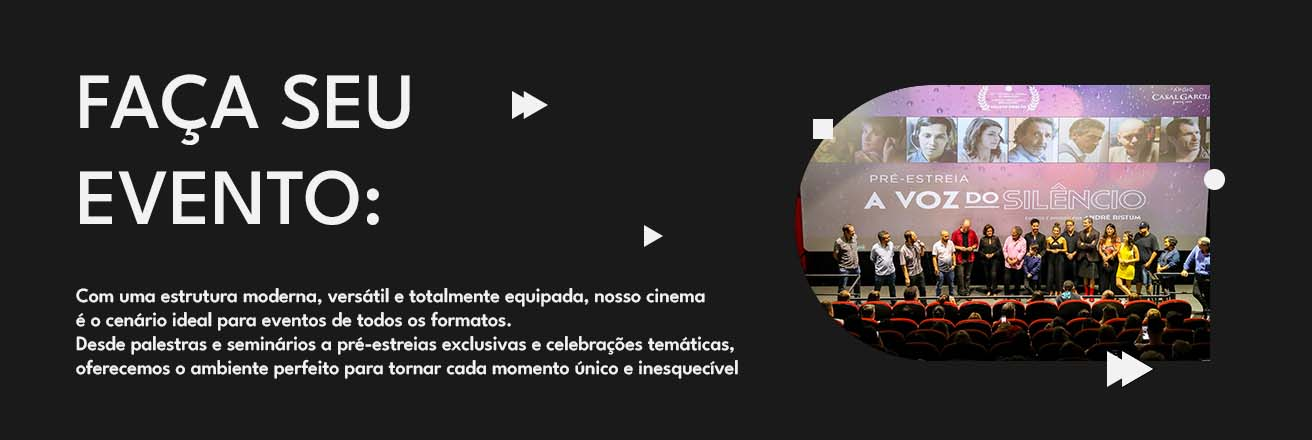
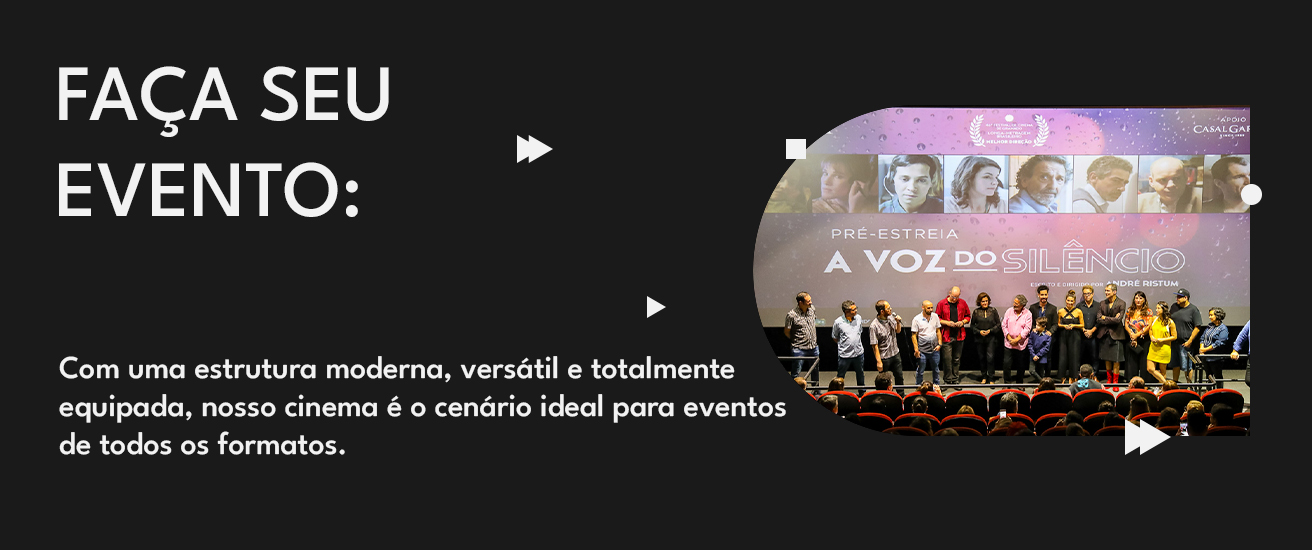
:construction: Página Eventos

diff --git a/src/Pages/secondary/Eventos/Eventos.jsx b/src/Pages/secondary/Eventos/Eventos.jsx
@@ -31,30 +31,86 @@ const Eventos = () => {
                                     className={styles.Orcamento}>Solicitar orçamento</button>
                         </article>
 
+                        
+                  </section>
+
+                  <section>
+
+                        <article className={styles.ArticleFull}>
+                              <div>
+                                    <h2 className={styles.TitleSide}>Uma Estrutura Completa</h2>
+                                    <p className={styles.Paragraph}>Localizado em pontos estratégicos, nosso cinema combina conforto, tecnologia e elegância para atender às suas necessidades.</p>
+                                    <ul>
+                                          <br/>
+                                          <li>4 salas em formato stadium <br/>(Capacidade de 110 a 190 lugares)</li>
+                                          <li>Exibição em <strong>QUALQUER FORMATO:</strong> PPT, DVD, HD e apresentações de filmes institucionais.
+                                          </li>
+                                          <li>Sala de exibição com equipamentos de última geração
+                                          </li>
+                                          <li>Ambientes climatizados e Wi-Fi gratuito
+                                          </li>
+                                    </ul>
+                              </div>
+                              <div>
+                                    <img src="/images/sala-1.jpg" alt="" />
+                              </div>
+                        </article>
+
                         <article className={styles.ArticleFull}>
                               <div>
                                     <img src="/images/15-anos-editora-planeta.jpg" alt="" />
                               </div>
 
                               <div>
-                                    <h1 className={styles.Title}>Mude de ambiente</h1>
-                                    <p>Oferecemos um ambiente versátil e sofisticado, ideal para transformar qualquer ocasião em um momento único. Nosso cinema vai além das exibições de filmes e abre suas portas para receber diferentes tipos de eventos. <br/>
-                                    <br/>Confira algumas das possibilidades:</p> <br/>
+                                    <h1 className={styles.TitleSide}>Mude de ambiente</h1>
+                                    <p className={styles.Paragraph}>Oferecemos um ambiente versátil e sofisticado, ideal para transformar qualquer ocasião em um momento único. Nosso cinema vai além das exibições de filmes e abre suas portas para receber diferentes tipos de eventos: <br/>
+                                    </p> <br/>
                                     
                                     <ul>
                                           <li>Palestras e seminários</li>
                                           <li>Eventos corporativos</li>
                                           <li>Festas e aniversários Temáticos</li>
+                                          <li>Lançamento de produtos</li>
                                     </ul> <br/>
 
-                                    <p>Solicite o seu orçamento com nosso comercial e faça a sua visita. Estamos ansiosos para recebê-los.</p>
+                                    <p className={styles.Paragraph}>
+                                    Entre em contato com nossa equipe comercial para solicitar seu orçamento e agendar uma visita.
+                                    </p>
+
+                                    <button 
+                                    onClick={() => navigate(`/${cidade}/Contato`)}
+                                    className={styles.Orcamento}>Solicitar orçamento</button>
 
                               </div>
                         </article>
 
-                        <article className={styles.Article}>
+                        <article className={styles.ArticleFull}>
+                              <div>
+                                    <h1 className={styles.TitleSide}>Serviços</h1>
+                                    <p className={styles.Paragraph}>Espaço para recepções e coquetéis: até 350 pessoas (em pé) ou 150 pessoas (sentadas).</p> <br />
+                                    <p className={styles.Paragraph}>Estacionamento conveniado para maior praticidade.</p> <br/>
+                                    <p className={styles.Paragraph}>Serviços de buffet com opções variadas:</p><br />
+                                    <ul>
+                                          <li>Welcome Coffee</li>
+                                          <li>Brunch</li>
+                                          <li>Almoços</li>
+                                          <li>Coquetéis</li>
+                                          <li>Jantares</li>
+                                    </ul>
+
+                                    <button 
+                                    onClick={() => navigate(`/${cidade}/Contato`)}
+                                    className={styles.Orcamento}>Solicitar orçamento</button>
+                              </div>
+
+                              <div>
+                                    <img src="/images/buffet.jpg" alt="O serviço de buffet do Cinema Reserva Cultural São Paulo"></img>
+                              </div>
+                        </article>
+
+                        <article className={styles.Article} id="Parcerias">
                               <h1 className={styles.Title}>Parcerias</h1>
-                                    <div className={styles.Parcerias}>
+                                    <div className={styles.Parcerias} >
                                           <a  href="https://dancarmarketing.com.br/"
                                           target="_blank" rel="noreferrer noopener">
                                           <img src={require('../../../images/Parceiros/11_dmkt.png')} alt="Logo Dançar Marketing" />
@@ -136,6 +192,7 @@ const Eventos = () => {
                               </div>
                         </article>
                   </section>
+
                   <Footer />
             </main>
       );

diff --git a/src/Pages/secondary/Eventos/Eventos.module.css b/src/Pages/secondary/Eventos/Eventos.module.css
@@ -10,23 +10,20 @@
 }
 
 .ArticleFull{
-    padding: 6rem;
+    padding: 3rem 9rem;
     display: flex;
     flex-direction: row;
     width: 100%;
     margin: 0;
-    background-color: #f0f0f0;
+    background-color: #202020;
     border-radius: 0;
 }
+
 .ArticleFull div{
     width: 50%;
-    margin: 1rem;
+    margin: 1.5rem;
 }
-.ArticleFull p{
-    color: var(--main-bg-color-dark);
-    font-size: 1.3rem;
-    font-weight: 300;
-}
+
 .ArticleFull img{
     box-shadow: 0 10px 8px rgba(0, 0, 0, 0.2);
     width: 100%;
@@ -41,27 +38,42 @@
 }
 
 .Title{
-    color: var(--main-color);
     font-size: 3rem;
     font-weight: 500;
     text-transform: uppercase;
     text-align: center;
+    padding-bottom: 0.5rem;
     margin-bottom: 2.5rem;
+    color: var(--main-text-color);
+    border-bottom: 3px solid var(--main-color);
 }
 
-.Paragraph{
-    color: var(--main-text-color);
-    font-size: 1.2rem;
+.TitleSide{
+    font-size: 2.5rem;
     font-weight: 400;
-    text-align: center;
+    text-transform: uppercase;
+    text-align: left;
+    margin-bottom: 2.5rem;
+    color: var(--main-text-color);
+    border-bottom: 3px solid var(--main-color);  
+
 }
+
 .ArticleFull div ul{
     padding-left: 2rem;
 }
 
 .ArticleFull div li{
-    font-size: 1.5rem;
+    font-size: 1.3rem;
     list-style: disc;
+    color: var(--main-text-color);
+    margin-bottom: 0.8rem;
+}
+.Paragraph{
+    font-size: 1.3rem;
+    list-style: disc;
+    color: var(--main-text-color);
+    margin-bottom: 0.1rem;
 }
 
 .Orcamento{
@@ -70,7 +82,7 @@
     border-radius: 0.5rem;
     width: 15rem;
     padding: 1rem;
-    margin: 1.8rem auto;
+    margin: 0.9rem auto;
     font-weight: 800;
     text-transform: uppercase;
 }
@@ -87,7 +99,7 @@
     justify-content: center;
     align-items: center;
     display: grid;
-    grid-template-columns: repeat(2, 1fr);
+    grid-template-columns: repeat(3, 1fr);
 }
 
 .Parcerias a{
